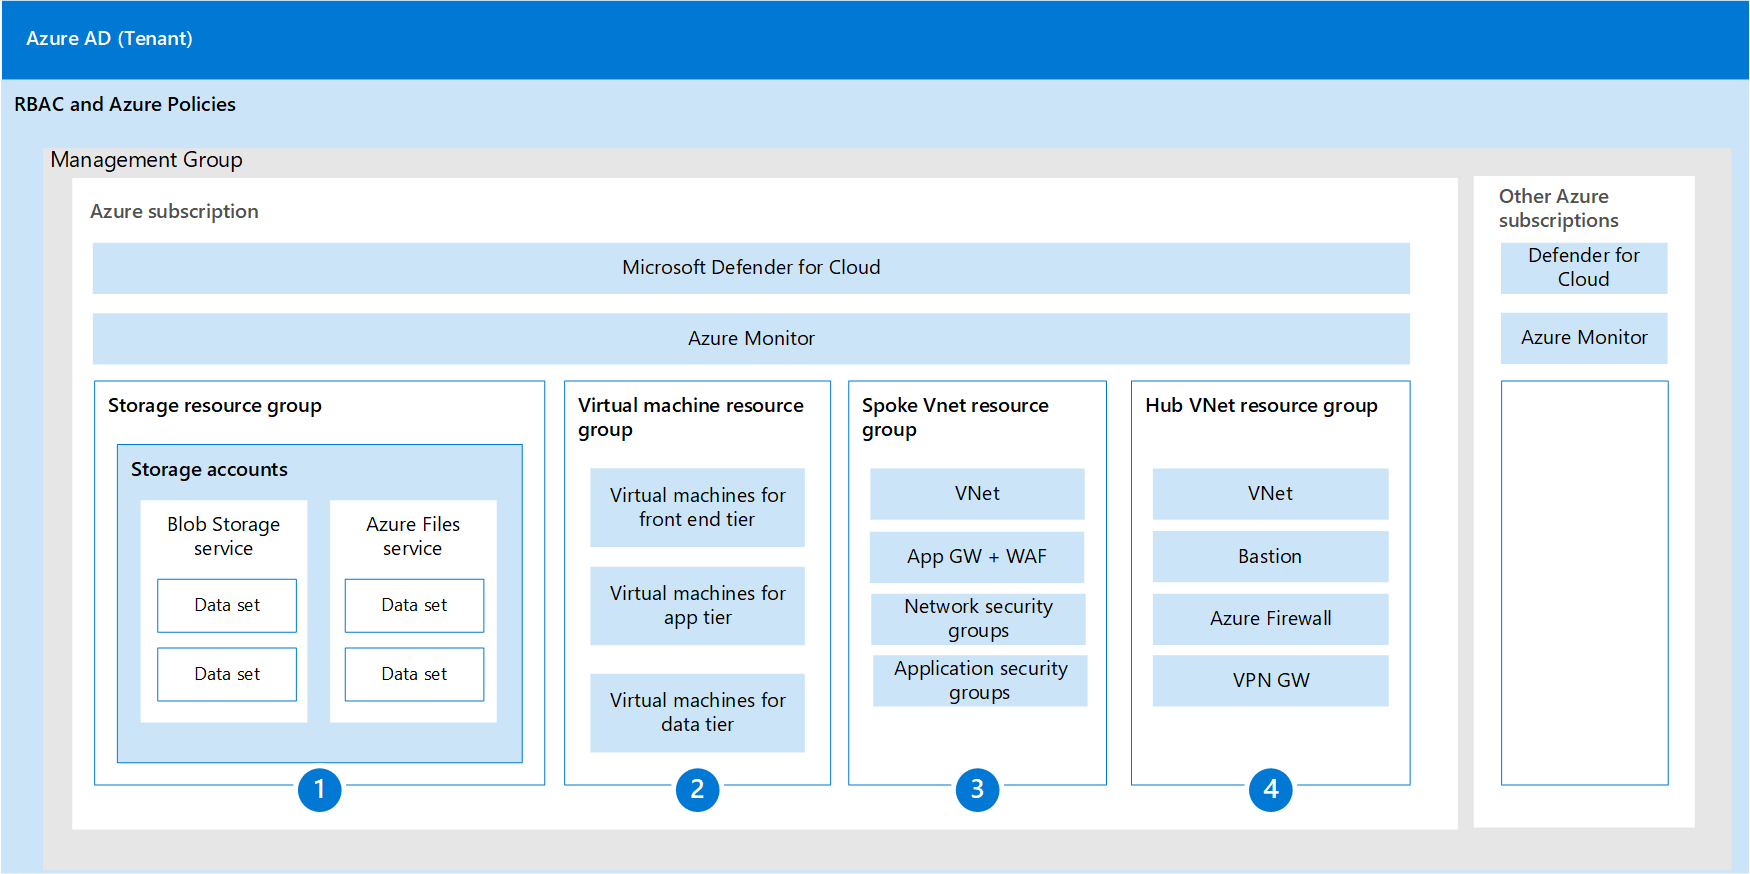
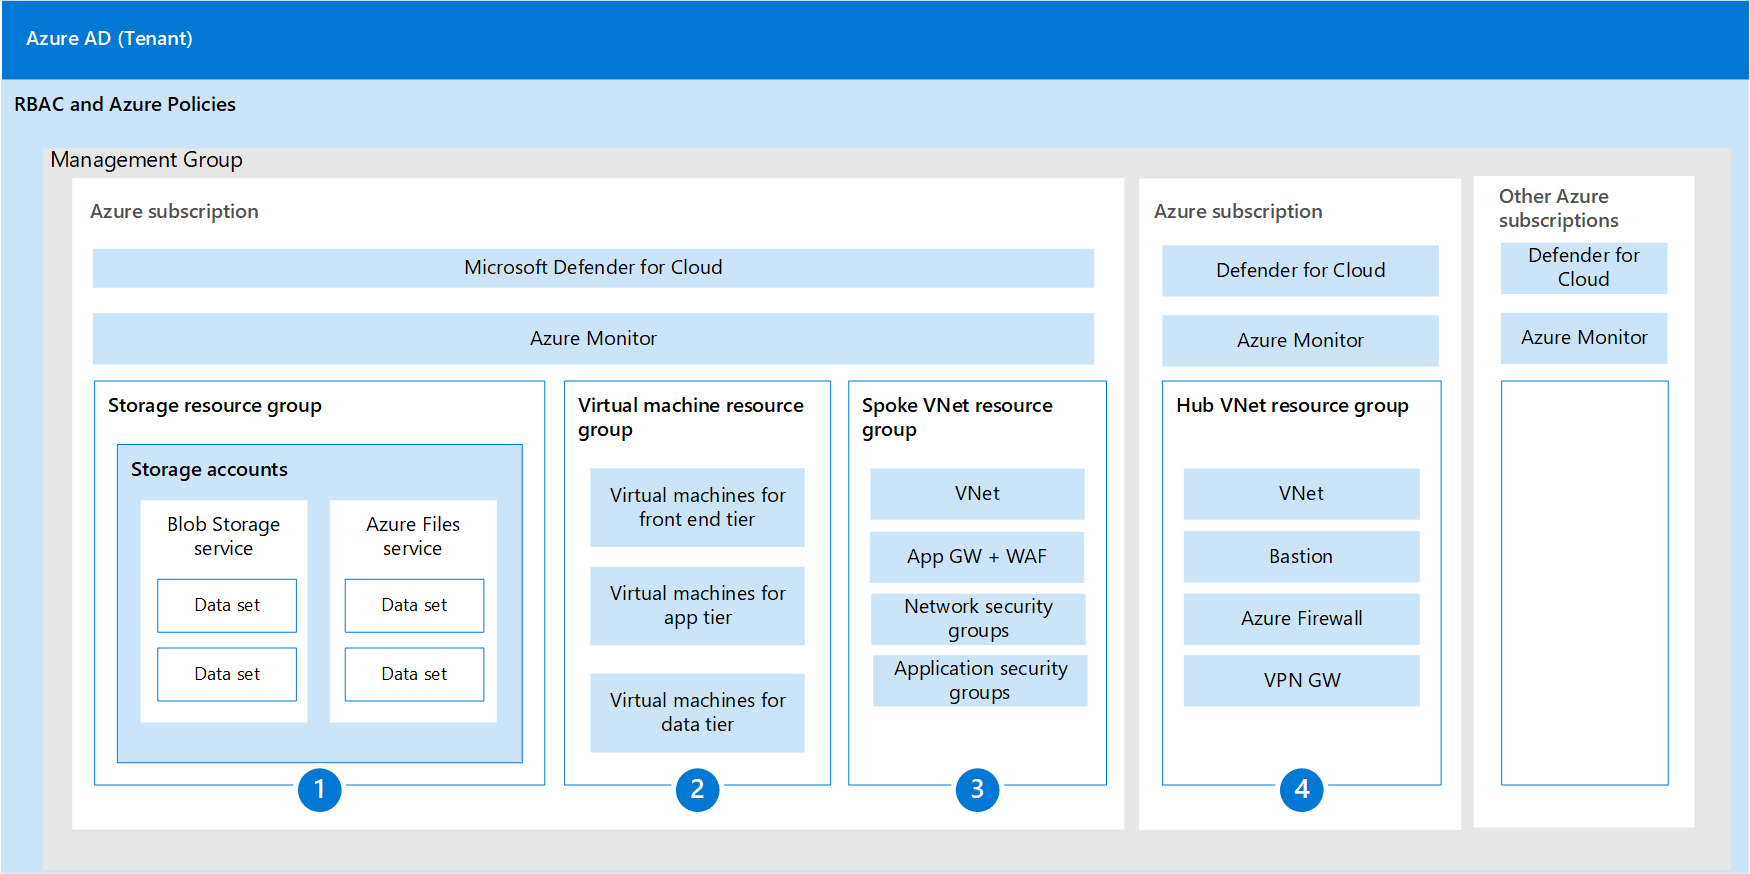
Latest changes to subscription changes for the VNets

diff --git a/zero-trust/azure-infrastructure-overview.md b/zero-trust/azure-infrastructure-overview.md
@@ -97,7 +97,7 @@ In this diagram, the Azure infrastructure is contained within one Azure AD tenan
 
    Virtual machines are contained in one resource group. You can also have each virtual machine type for workload tiers such as front end, application, and data in different resource groups to further isolate access control.
 
-- Spoke (3) and hub (4) VNet resource groups
+- Spoke (3) and hub (4) VNet resource groups in separate subscriptions
 
    The network and other resources for each of the VNets in the reference architecture are isolated within dedicated resource groups for spoke and hub VNets. This organization works well when responsibility for these live on different teams. Another option is to organize these components by putting all network resources in one resource group and security resources in another. It depends on how your organization is set up to manage these resources.
 

diff --git a/zero-trust/azure-infrastructure-networking.md b/zero-trust/azure-infrastructure-networking.md
@@ -54,7 +54,7 @@ The resources that are deployed for the hub VNet are:
 - Bastion
 - VPN gateway with a public IP address and route table
 
-The following diagram shows the components of a resource group for a hub VNet in an Azure subscription. This is one way of organizing these elements within the subscription. Your organization might choose to organize these in a different way.
+The following diagram shows the components of a resource group for a hub VNet in an Azure subscription separate from the subscription for the spoke VNet. This is one way of organizing these elements within the subscription. Your organization might choose to organize these in a different way.
 
 :::image type="content" source="media/hub/azure-infra-hub-subscription-architecture-2.png" alt-text="Diagram of the components of a resource group for a hub virtual network.":::
 

diff --git a/zero-trust/azure-infrastructure-iaas.md b/zero-trust/azure-infrastructure-iaas.md
@@ -40,7 +40,7 @@ In the diagram:
 
 The application shown in the reference architecture follows the [N-tier architecture style](/azure/architecture/guide/architecture-styles/n-tier)
 
-The following diagram shows the components of a resource group for a spoke VNet in an Azure subscription.
+The following diagram shows the components of a resource group for a spoke VNet in an Azure subscription separate from the subscription for the hub VNet.
 
 :::image type="content" source="media/spoke/azure-infra-spoke-subscription-architecture-2.png" alt-text="Diagram of the components of a resource group for a spoke VNet.":::
 
